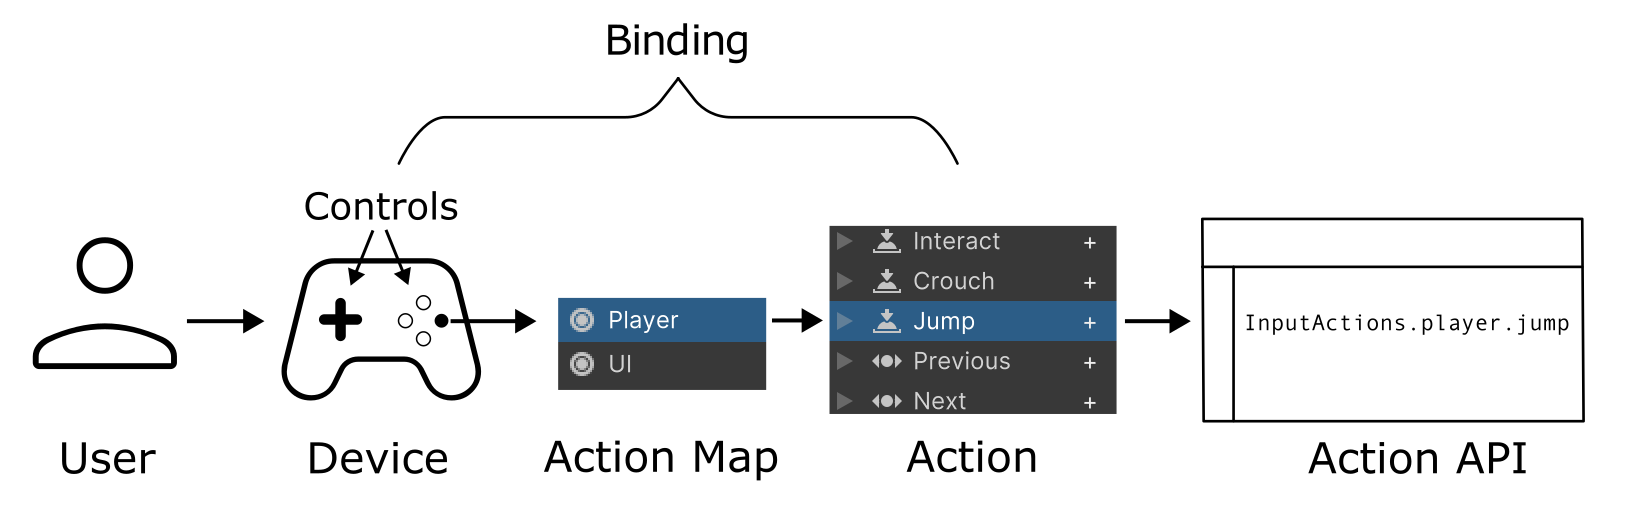
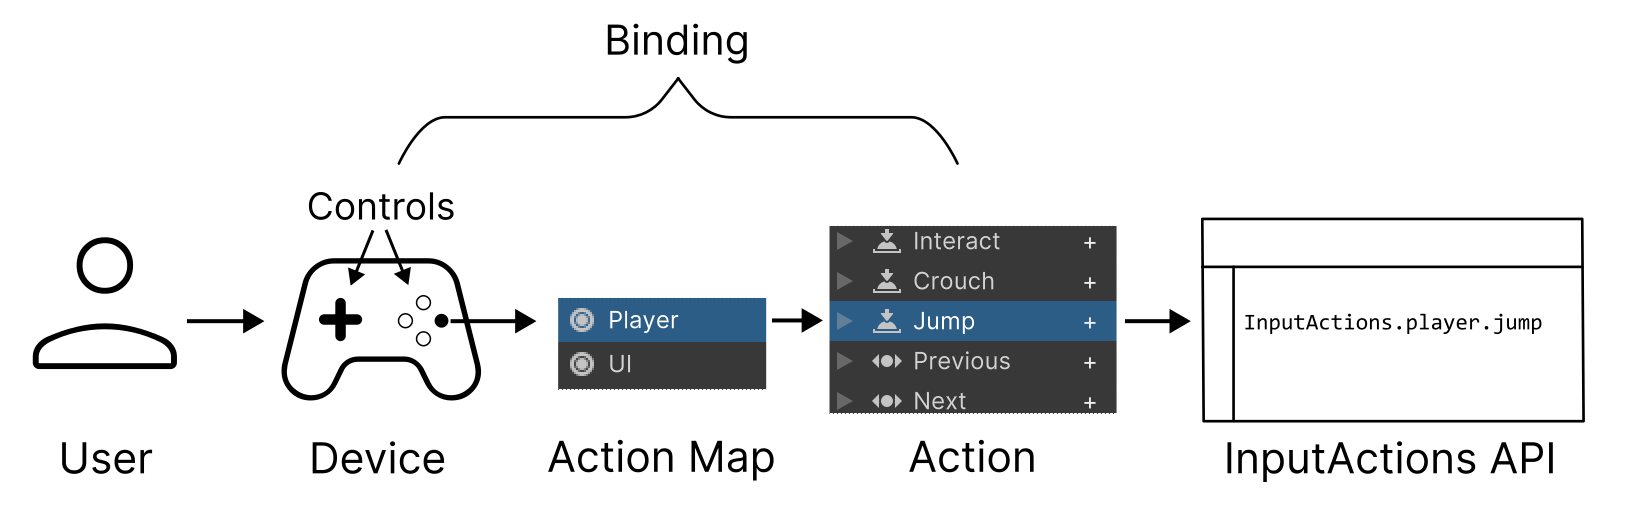
continued docs work

diff --git a/Packages/com.unity.inputsystem/Documentation~/Concepts.md b/Packages/com.unity.inputsystem/Documentation~/Concepts.md
@@ -15,4 +15,4 @@ This page introduces the basic concepts that relate to working with the Input Sy
 |**Action Map**| A collection of Actions which all relate to the same situation. You can simultaneously enable or disable all Actions in an action map, so it is useful to group Actions in Action Maps by the context in which they are relevant. For example, you might have one action map for controlling a player, and another for interacting with your game's UI.|
 |[**Action**](Actions.html)| These are things a user can do in your game or app as a result of input, regardless of what device or control they use to perform it. Actions generally have conceptual names that you choose to suit your project, and should usually be verbs. For example "Run", "Jump" "Crouch", "Use", "Start", "Quit". The Input System can help you manage and edit your actions, or you can implement them yourself.|
 |[**Binding**](ActionBindings.html)| A connection defined between an **Action** and one or more **Controls**. For example, in a car racing game, pressing the right shoulder button on a controller might be bound to the action "Change Gear Up".|
-|**Action API**| The API member automatically generated by the Input System which matches the Action Map and Action names defined in the Input Settings. You can either poll the current state of the action, or set up a callback to call your own method when the action is performed.|
+|**InputActions API**| The API methods and properties automatically generated by the Input System which match the Action Map and Action names defined in the Input Settings. These allow you to either poll the current state of the action, or set up a callback to call your own method when actions are performed.|
